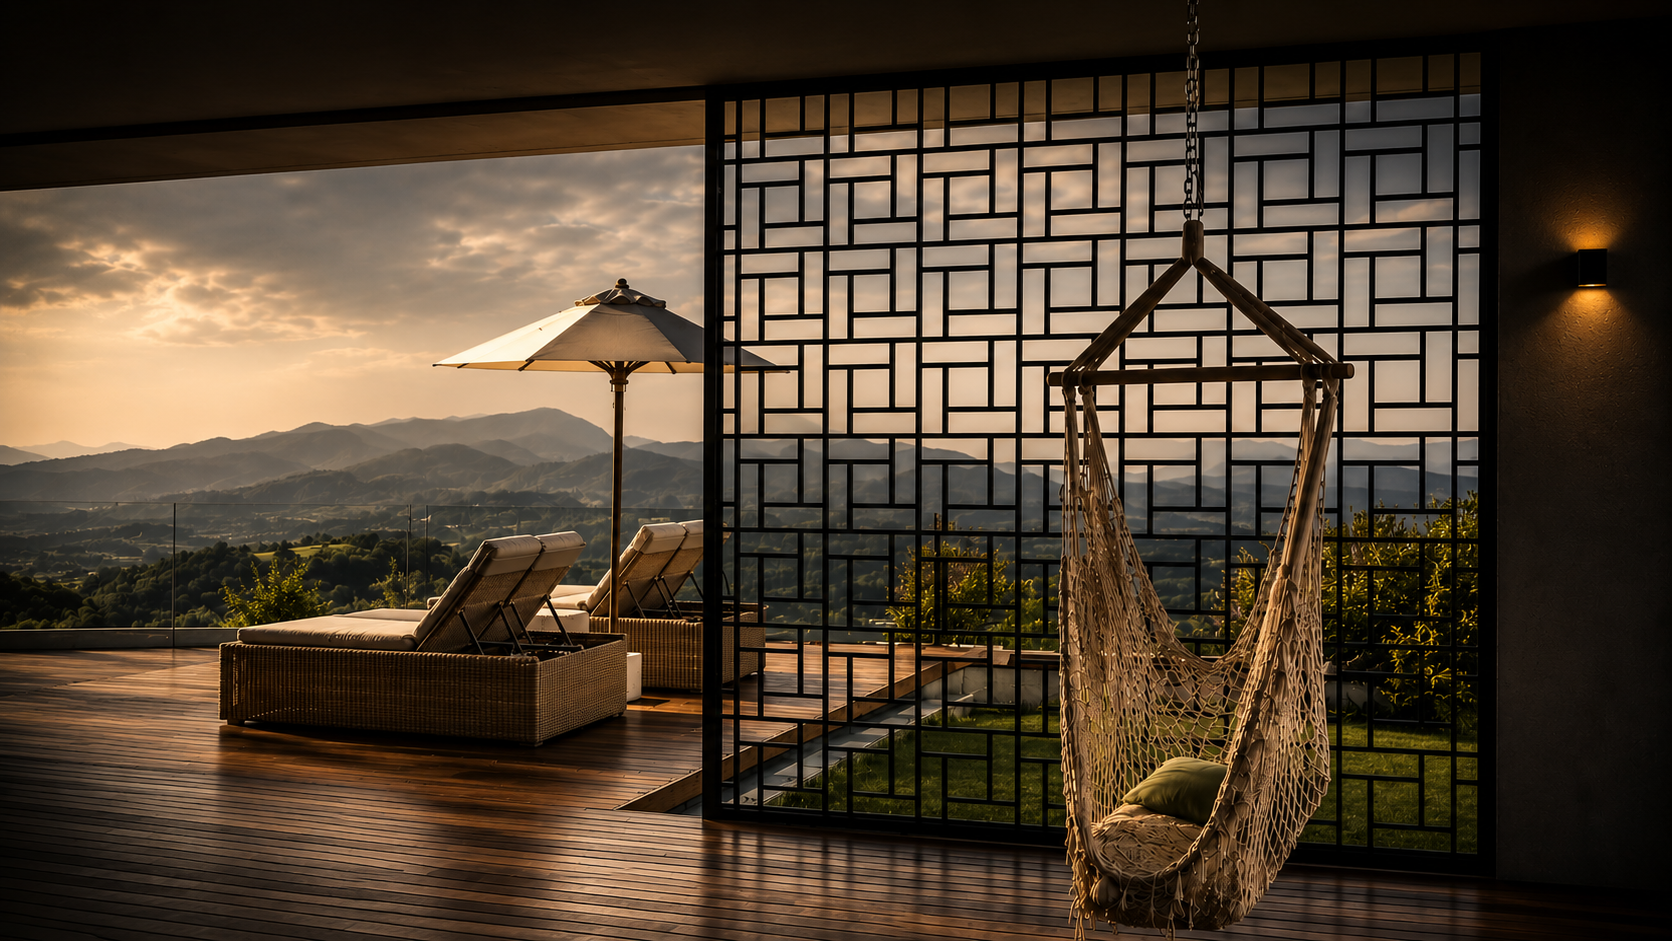
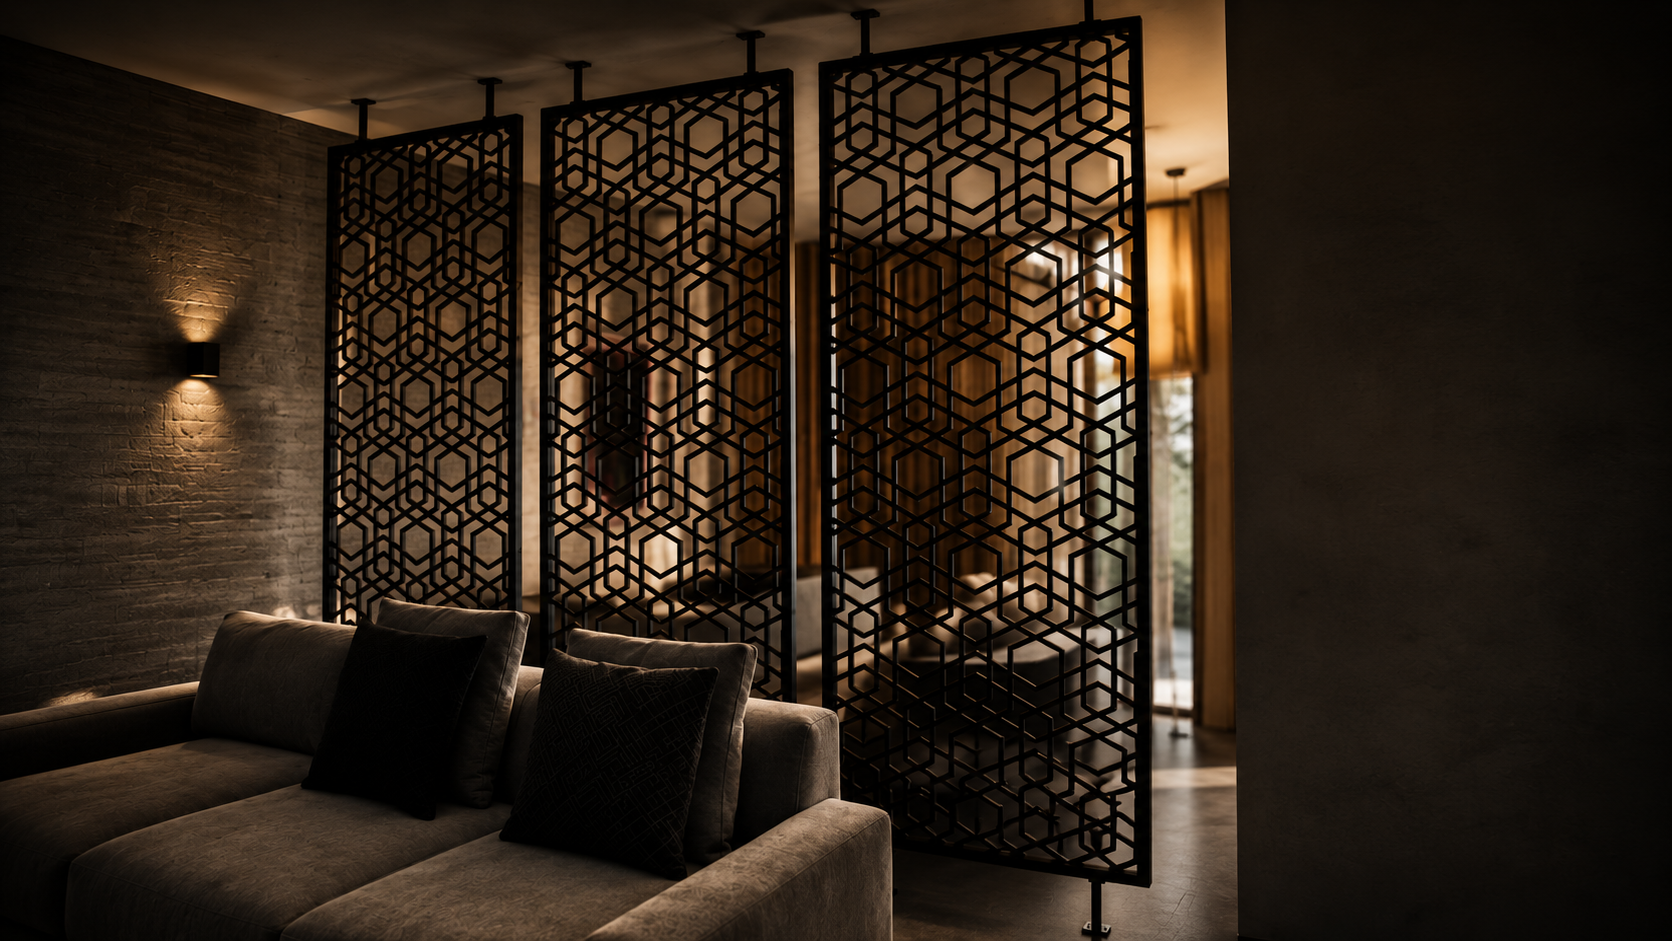
Production release

diff --git a/forja-diseno/components/Hero.tsx b/forja-diseno/components/Hero.tsx
@@ -2,6 +2,7 @@
 
 import Image from "next/image";
 import { motion } from "framer-motion";
+
 import { Inter, Playfair_Display } from "next/font/google";
 
 const inter = Inter({
@@ -16,63 +17,115 @@ const playfair = Playfair_Display({
 });
 
 export default function Hero() {
+  function scrollToContact() {
+    const section = document.getElementById("contacto");
+
+    if (section) {
+      section.scrollIntoView({
+        behavior: "smooth",
+      });
+    }
+  }
+
   return (
     <section className="relative flex min-h-screen items-center overflow-hidden px-6 pt-32">
-      <div className="grid-pattern absolute inset-0 opacity-30" />
+      {/* BACKGROUND IMAGE */}
 
-      <div className="mx-auto grid max-w-7xl gap-20 lg:grid-cols-2">
+      <div className="absolute inset-0">
+        <Image
+          src="/images/hero-metalurgia.jpg"
+          alt="FORJA & Diseño"
+          fill
+          priority
+          quality={100}
+          className="object-cover"
+        />
+
+        <div className="absolute inset-0 bg-black/60" />
+
+        <div className="absolute inset-0 bg-[radial-gradient(circle_at_top_left,rgba(255,69,0,0.18),transparent_35%)]" />
+      </div>
+
+      {/* GRID */}
+
+      <div className="absolute inset-0 opacity-[0.03]">
+        <div
+          className="h-full w-full"
+          style={{
+            backgroundImage: `
+              linear-gradient(rgba(255,255,255,0.08) 1px, transparent 1px),
+              linear-gradient(90deg, rgba(255,255,255,0.08) 1px, transparent 1px)
+            `,
+            backgroundSize: "80px 80px",
+          }}
+        />
+      </div>
+
+      {/* CONTENT */}
+
+      <div className="relative z-10 mx-auto w-full max-w-7xl">
         <motion.div
-          initial={{ opacity: 0, y: 80 }}
-          animate={{ opacity: 1, y: 0 }}
-          transition={{ duration: 1 }}
+          initial={{
+            opacity: 0,
+            y: 40,
+          }}
+          animate={{
+            opacity: 1,
+            y: 0,
+          }}
+          transition={{
+            duration: 1,
+          }}
+          className="max-w-4xl"
         >
-          <div className="mb-8 h-[2px] w-24 bg-[#FF4500]" />
+          {/* TOP LABEL */}
+
+          <div className="mb-8 flex items-center gap-4">
+            <div className="h-[1px] w-16 bg-[#FF4500]" />
+
+            <span className="text-sm uppercase tracking-[0.28em] text-[#8E8E93]">
+              Arquitectura Metálica Contemporánea
+            </span>
+          </div>
+
+          {/* TITLE */}
 
           <h1 className="leading-none">
             <span
-              className={`${inter.className} block text-7xl font-black uppercase tracking-[-0.05em] md:text-9xl`}
+              className={`${inter.className} block text-[16vw] font-black uppercase tracking-[-0.08em] text-white md:text-[9rem]`}
             >
               FORJA &
             </span>
 
             <span
-              className={`${playfair.className} block text-6xl italic text-[#FF4500] md:text-8xl`}
+              className={`${playfair.className} block text-[14vw] italic tracking-[-0.05em] text-[#FF4500] md:text-[7rem]`}
             >
               Diseño
             </span>
           </h1>
 
-          <p className="mt-10 max-w-2xl text-lg leading-relaxed text-[#8E8E93]">
-            Metalurgia contemporánea, herrería arquitectónica y fabricación
-            premium para espacios residenciales y comerciales.
+          {/* DESCRIPTION */}
+
+          <p className="mt-10 max-w-2xl text-lg leading-relaxed text-[#b0b0b0] md:text-xl">
+            Herrería arquitectónica, mobiliario industrial y
+            metalurgia contemporánea desarrollada con precisión
+            técnica y sensibilidad estética.
           </p>
 
-          <a
-            href="#contacto"
-            className="mt-12 inline-flex border border-[#FF4500] bg-[#FF4500] px-8 py-4 text-sm font-semibold uppercase tracking-[0.18em] transition duration-500 hover:scale-[1.03] hover:bg-transparent hover:shadow-[0_0_60px_rgba(255,69,0,0.45)]"
+          {/* CTA */}
+
+          <button
+            onClick={scrollToContact}
+            className="mt-12 inline-flex items-center border border-[#FF4500] bg-[#FF4500] px-8 py-4 text-sm font-semibold uppercase tracking-[0.18em] text-white transition duration-500 hover:scale-[1.03] hover:bg-transparent hover:shadow-[0_0_60px_rgba(255,69,0,0.45)]"
           >
             Iniciar Proyecto
-          </a>
-        </motion.div>
-
-        <motion.div
-          initial={{ opacity: 0, scale: 1.1 }}
-          animate={{ opacity: 1, scale: 1 }}
-          transition={{ duration: 1.2 }}
-          className="relative hidden h-[700px] overflow-hidden border border-[#1a1a1a] lg:block"
-        >
-          <Image
-            src="/images/hero-metalurgia.jpg"
-            alt="Metalurgia"
-            fill
-            priority
-            quality={90}
-            className="object-cover grayscale transition duration-1000 will-change-transform hover:scale-110 hover:grayscale-0"
-          />
-
-          <div className="absolute inset-0 bg-black/30" />
+          </button>
         </motion.div>
       </div>
+
+      {/* BOTTOM FADE */}
+
+      <div className="absolute bottom-0 left-0 h-40 w-full bg-gradient-to-t from-black to-transparent" />
     </section>
   );
 }

diff --git a/forja-diseno/app/layout.tsx b/forja-diseno/app/layout.tsx
@@ -1,29 +1,78 @@
 import type { Metadata } from "next";
+
+import { Analytics } from "@vercel/analytics/react";
+
 import "./globals.css";
 
 export const metadata: Metadata = {
-  title: "FORJA & Diseño",
+  metadataBase: new URL("https://forja-diseno.vercel.app"),
+
+  title: {
+    default: "FORJA & Diseño",
+    template: "%s | FORJA & Diseño",
+  },
 
   description:
-    "Taller premium de metalurgia contemporánea, herrería arquitectónica y diseño industrial.",
+    "Metalurgia contemporánea, herrería arquitectónica y diseño industrial premium.",
 
   keywords: [
-    "metalurgia",
     "herrería",
-    "arquitectura metálica",
-    "forja",
+    "metalurgia",
     "diseño industrial",
+    "forja",
+    "carpintería metálica",
+    "mobiliario industrial",
+    "cerramientos",
+    "arquitectura metálica",
   ],
+
+  openGraph: {
+    title: "FORJA & Diseño",
+
+    description:
+      "Taller premium de herrería arquitectónica y metalurgia contemporánea.",
+
+    url: "https://forja-diseno.vercel.app",
+
+    siteName: "FORJA & Diseño",
+
+    locale: "es_ES",
+
+    type: "website",
+
+    images: [
+      {
+        url: "/og-image.jpg",
+        width: 1200,
+        height: 630,
+      },
+    ],
+  },
+
+  twitter: {
+    card: "summary_large_image",
+
+    title: "FORJA & Diseño",
+
+    description:
+      "Arquitectura metálica contemporánea y herrería premium.",
+
+    images: ["/og-image.jpg"],
+  },
 };
 
 export default function RootLayout({
   children,
-}: Readonly<{
+}: {
   children: React.ReactNode;
-}>) {
+}) {
   return (
     <html lang="es">
-      <body>{children}</body>
+      <body>
+        {children}
+
+        <Analytics />
+      </body>
     </html>
   );
 }

diff --git a/forja-diseno/components/Projects.tsx b/forja-diseno/components/Projects.tsx
@@ -4,26 +4,22 @@ import Reveal from "@/components/Reveal";
 const projects = [
   {
     title: "Decoración e Interiores",
-    image:
-      "/images/interiores-industriales.jpg",
+    image: "/images/interiores-industriales.jpg",
   },
 
   {
     title: "Mobiliario Industrial",
-    image:
-      "/images/mobiliario-industrial.jpg",
+    image: "/images/mobiliario-industrial.jpg",
   },
 
   {
     title: "Cerramientos",
-    image:
-      "/images/cerramientos-minimalistas.jpg",
+    image: "/images/cerramientos-minimalistas.jpg",
   },
 
   {
     title: "Equipamiento de Exterior",
-    image:
-      "/images/exterior-pergola.jpg",
+    image: "/images/equipo-exterior.jpg",
   },
 ];
 
@@ -43,31 +39,28 @@ export default function Projects() {
         </div>
 
         <div className="grid gap-6 md:grid-cols-2">
-          {projects.map((project, index) => (
+          {projects.map((project) => (
             <Reveal key={project.title}>
-              <div
-                className={`group metal-border relative overflow-hidden
-                ${index % 2 === 0 ? "md:h-[520px]" : "md:h-[420px]"}
-                h-[400px]`}
-              >
+              <article className="group metal-border relative aspect-[16/10] overflow-hidden bg-[#050505]">
                 <Image
                   src={project.image}
                   alt={project.title}
                   fill
-                  quality={90}
-                  className="object-cover grayscale transition duration-1000 will-change-transform group-hover:scale-110 group-hover:grayscale-0"
+                  quality={100}
+                  sizes="(max-width: 768px) 100vw, 50vw"
+                  className="object-cover grayscale transition duration-1000 ease-out will-change-transform group-hover:scale-105 group-hover:grayscale-0"
                 />
 
-                <div className="absolute inset-0 bg-gradient-to-t from-black via-black/40 to-transparent" />
+                <div className="absolute inset-0 bg-gradient-to-t from-black via-black/20 to-transparent" />
 
                 <div className="absolute bottom-0 left-0 p-8">
                   <div className="mb-4 h-[2px] w-12 bg-[#FF4500]" />
 
-                  <h3 className="text-2xl font-semibold tracking-tight">
+                  <h3 className="text-2xl font-semibold tracking-tight text-white">
                     {project.title}
                   </h3>
                 </div>
-              </div>
+              </article>
             </Reveal>
           ))}
         </div>

diff --git a/forja-diseno/app/robots.ts b/forja-diseno/app/robots.ts
@@ -1,0 +1,14 @@
+import { MetadataRoute } from "next";
+
+export default function robots(): MetadataRoute.Robots {
+  return {
+    rules: {
+      userAgent: "*",
+
+      allow: "/",
+    },
+
+    sitemap:
+      "https://forja-diseno.vercel.app/sitemap.xml",
+  };
+}

diff --git a/forja-diseno/next.config.ts b/forja-diseno/next.config.ts
@@ -1,13 +1,14 @@
 import type { NextConfig } from "next";
 
 const nextConfig: NextConfig = {
+  reactStrictMode: true,
+
+  poweredByHeader: false,
+
+  compress: true,
+
   images: {
-    remotePatterns: [
-      {
-        protocol: "https",
-        hostname: "images.unsplash.com",
-      },
-    ],
+    formats: ["image/avif", "image/webp"],
   },
 };
 

diff --git a/forja-diseno/app/sitemap.ts b/forja-diseno/app/sitemap.ts
@@ -1,0 +1,11 @@
+import { MetadataRoute } from "next";
+
+export default function sitemap(): MetadataRoute.Sitemap {
+  return [
+    {
+      url: "https://forja-diseno.vercel.app",
+
+      lastModified: new Date(),
+    },
+  ];
+}

diff --git a/forja-diseno/app/globals.css b/forja-diseno/app/globals.css
@@ -66,3 +66,6 @@ body {
     inset 0 1px 0 rgba(255,255,255,0.04),
     0 0 0 1px rgba(255,255,255,0.02);
 }
+html {
+  scroll-behavior: smooth;
+}